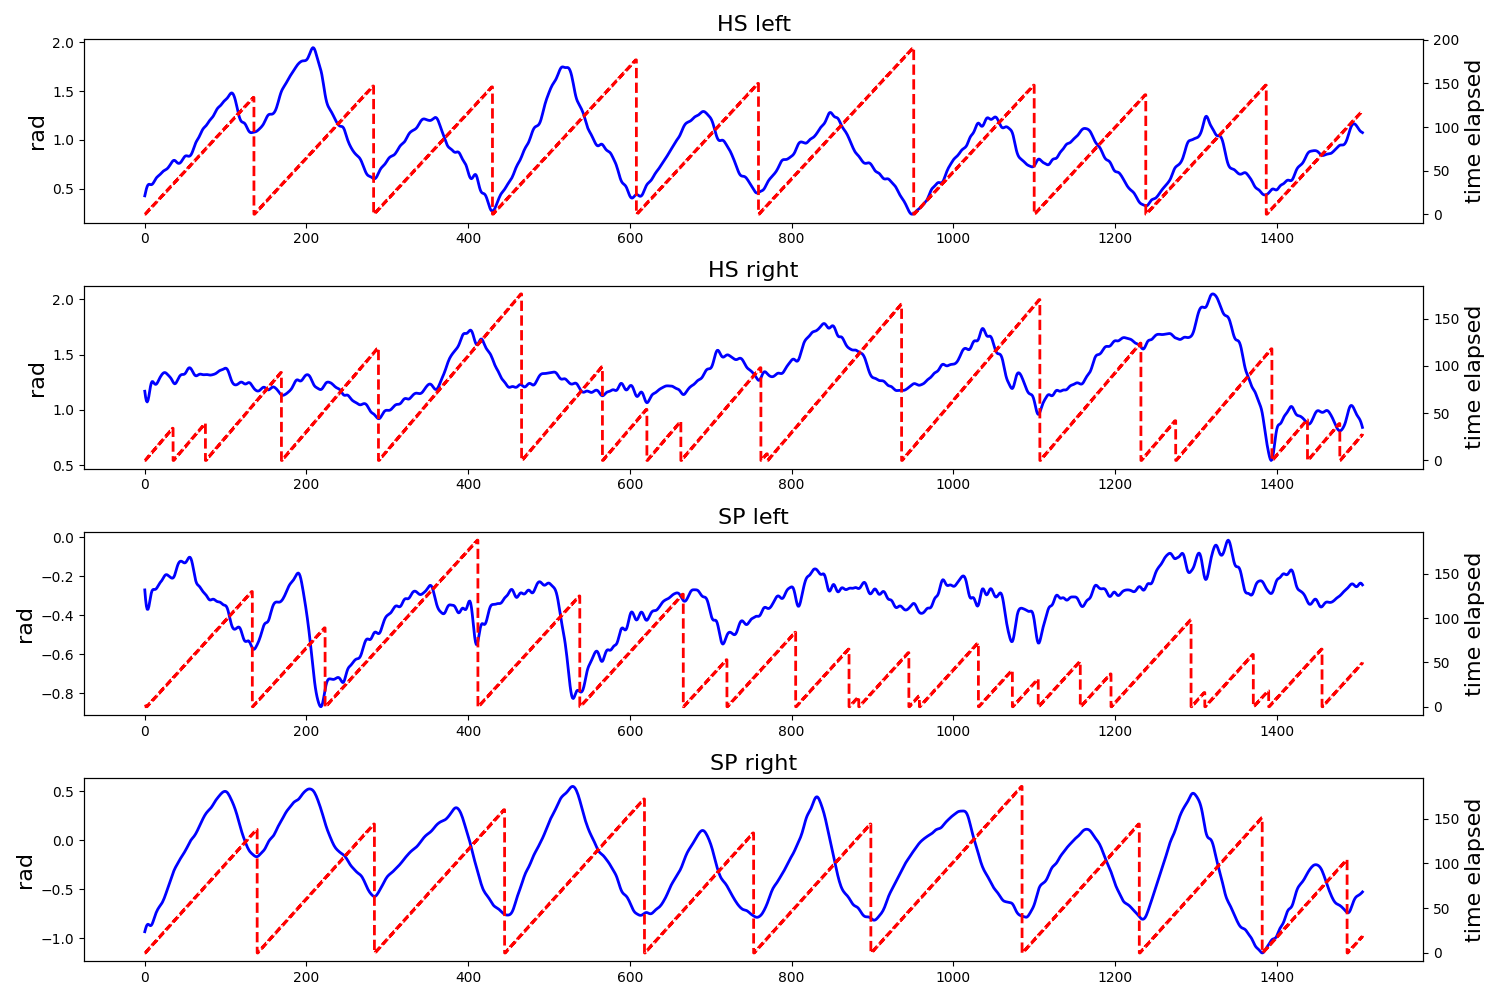
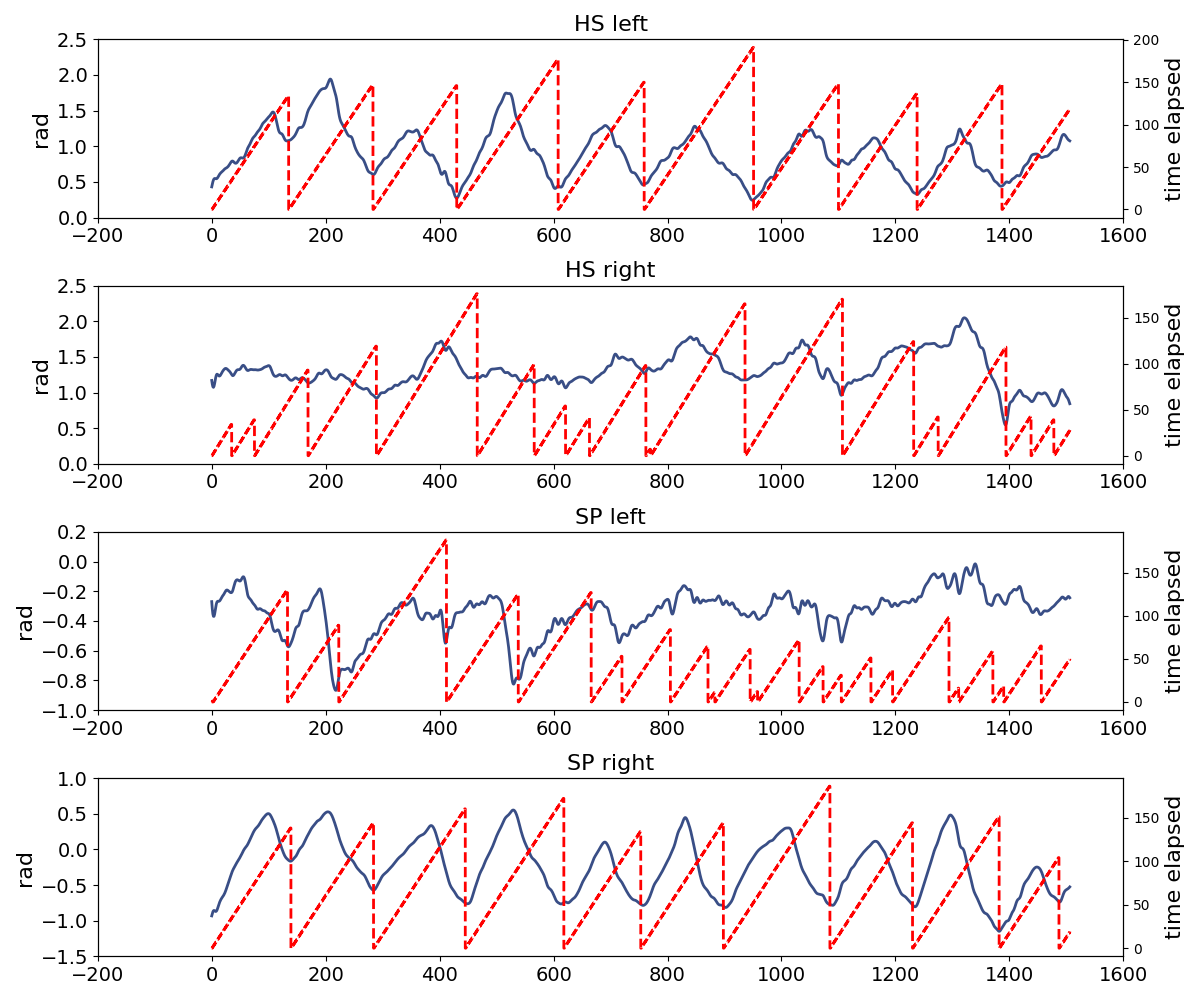
commit

diff --git a/expert_data_builder/stick_insect/open_source_data/antenna_phase_encode.py b/expert_data_builder/stick_insect/open_source_data/antenna_phase_encode.py
@@ -146,7 +146,7 @@ def get_antenna_dist(subject:str, bin_step=60):
     return discrete_data
 
 if __name__ == "__main__":
-    subject= "01"
+    subject= "02"
     # Load the antenna data
     antenna_01 = get_data(subject)
     # Smooth the antenna data: detect the contact points
